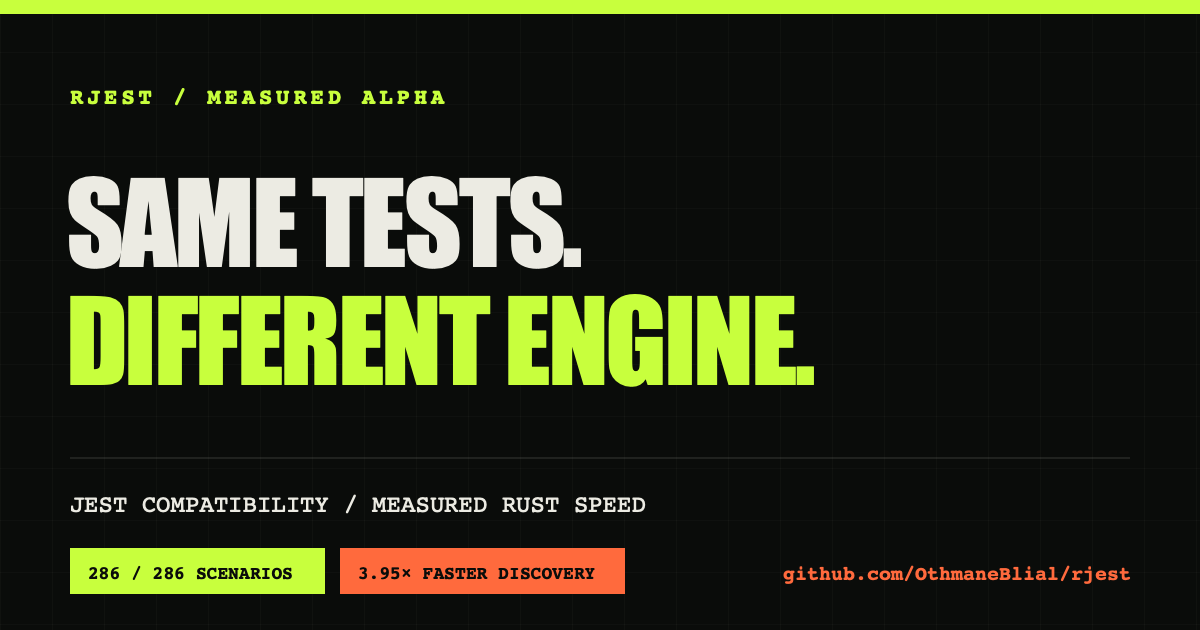
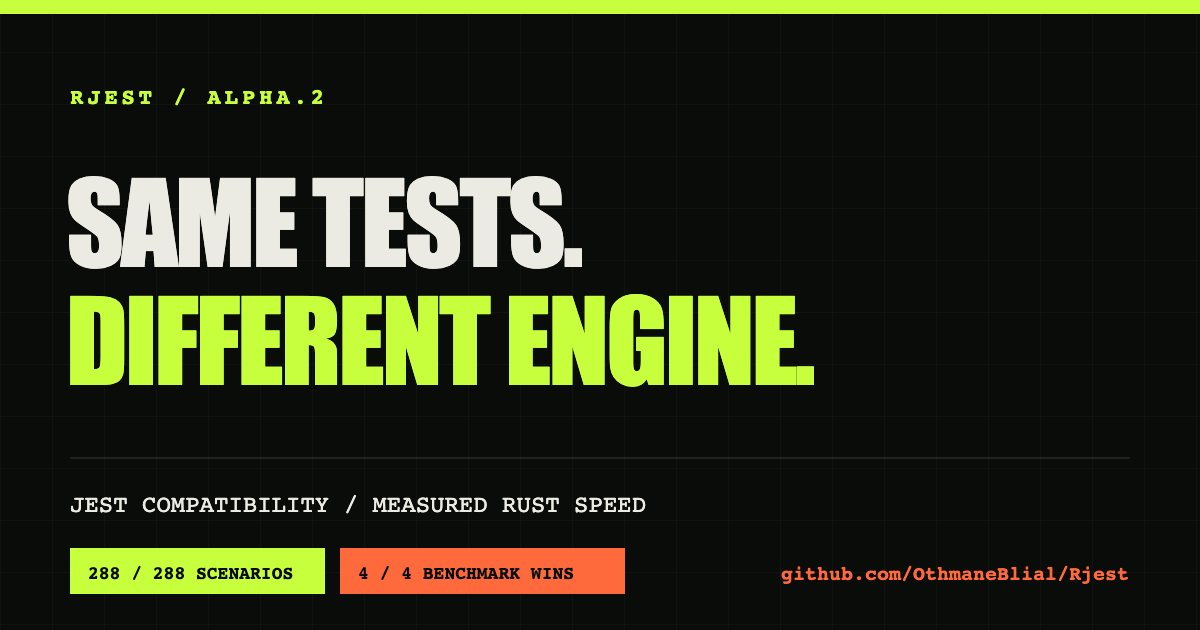
docs(site): link alpha.2 installation and refresh release details

diff --git a/site/index.html b/site/index.html
@@ -27,7 +27,7 @@
     <meta property="og:site_name" content="Rjest" />
     <meta
       property="og:image"
-      content="https://othmaneblial.github.io/rjest/og-card.png"
+      content="https://othmaneblial.github.io/rjest/og-card.png?v=alpha-2"
     />
     <meta property="og:image:width" content="1200" />
     <meta property="og:image:height" content="630" />
@@ -46,7 +46,7 @@
     />
     <meta
       name="twitter:image"
-      content="https://othmaneblial.github.io/rjest/og-card.png"
+      content="https://othmaneblial.github.io/rjest/og-card.png?v=alpha-2"
     />
     <link rel="icon" href="favicon.svg" type="image/svg+xml" />
     <link rel="preconnect" href="https://fonts.googleapis.com" />
@@ -597,35 +597,45 @@
           <div class="start-panel reveal">
             <div class="start-panel__copy">
               <p class="eyebrow">Bring a real suite</p>
-              <h2>Find the next gap.</h2>
+              <h2>Try your existing suite.</h2>
               <p>
-                Install the alpha, list the tests in an existing project, run
-                serially, and compare the result with official Jest.
+                Install alpha.2 from the release below. Requires Node.js 22.18
+                or newer and rustup; installation builds the native coordinator
+                with Rust 1.95. Compare discovery, then run serially and in
+                parallel with official Jest.
               </p>
               <div class="step-list">
-                <span><b>1</b> Install the alpha</span>
+                <span><b>1</b> Install alpha.2</span>
                 <span><b>2</b> Compare discovery</span>
                 <span><b>3</b> Run the suite</span>
               </div>
+              <a class="text-link release-link" href="https://github.com/OthmaneBlial/Rjest/releases/tag/v0.1.0-alpha.2" target="_blank" rel="noreferrer">
+                Alpha.2 release &amp; checksums <span aria-hidden="true">↗</span>
+              </a>
             </div>
 
             <div class="install-terminal">
               <div class="terminal-toolbar">
-                <span>BUILD / TRY</span>
+                <span>INSTALL / ALPHA.2</span>
                 <button
                   class="copy-button"
                   type="button"
-                  data-copy="npm install --save-dev rjest-rust-runner@alpha&#10;npx rjest --listTests&#10;npx rjest --runInBand"
+                  data-copy="npm install --save-dev https://github.com/OthmaneBlial/Rjest/releases/download/v0.1.0-alpha.2/rjest-rust-runner-0.1.0-alpha.2.tgz&#10;npx jest --listTests&#10;npx rjest --listTests&#10;npx jest --runInBand&#10;npx rjest --runInBand&#10;npx rjest --maxWorkers=4"
                 >
                   Copy
                 </button>
               </div>
-              <pre><code><span class="terminal-comment"># Install the current alpha</span>
-<span class="terminal-prompt">$</span> npm install --save-dev rjest-rust-runner@alpha
+              <pre><code><span class="terminal-comment"># Install alpha.2 from GitHub</span>
+<span class="terminal-prompt">$</span> npm install --save-dev https://github.com/OthmaneBlial/Rjest/releases/download/v0.1.0-alpha.2/rjest-rust-runner-0.1.0-alpha.2.tgz
 
-<span class="terminal-comment"># Compare discovery, then execute serially</span>
+<span class="terminal-comment"># Compare discovered tests</span>
+<span class="terminal-prompt">$</span> npx jest --listTests
 <span class="terminal-prompt">$</span> npx rjest --listTests
-<span class="terminal-prompt">$</span> npx rjest --runInBand</code></pre>
+
+<span class="terminal-comment"># Compare serial results, then run in parallel</span>
+<span class="terminal-prompt">$</span> npx jest --runInBand
+<span class="terminal-prompt">$</span> npx rjest --runInBand
+<span class="terminal-prompt">$</span> npx rjest --maxWorkers=4</code></pre>
             </div>
           </div>
         </div>
@@ -650,8 +660,9 @@
                 interruption are tested against Jest.
               </li>
               <li>
-                <span>02</span> Transform/discovery persistence and worker reuse
-                remain performance work.
+                <span>02</span> Persistent discovery/transform caches and reuse
+                of test isolates remain open. Alpha.2 reuses the Node host;
+                every file still gets a fresh isolate.
               </li>
               <li>
                 <span>03</span> Custom VM identity, specialized reporter
@@ -659,8 +670,16 @@
                 combinations, and long-tail resolvers need broader proof.
               </li>
               <li>
-                <span>04</span> Unlisted Jest behavior is not yet a
-                compatibility claim.
+                <span>04</span> Multi-file threads share a PID and native
+                process resources. Main-thread-only APIs such as
+                <code>process.chdir</code> are unavailable; a native crash or
+                killing the host PID can stop the batch. Single-file runs use
+                a separate process.
+              </li>
+              <li>
+                <span>05</span> Unlisted Jest behavior needs comparison with
+                your project. Test execution uses your permissions and is not
+                a security sandbox.
               </li>
             </ul>
             <a
@@ -686,6 +705,7 @@
           <p>Switch the runner. Keep the test suite.</p>
         </div>
         <div class="footer-links">
+          <a href="https://github.com/OthmaneBlial/Rjest/releases/tag/v0.1.0-alpha.2" target="_blank" rel="noreferrer">Alpha.2 release ↗</a>
           <a
             href="https://github.com/OthmaneBlial/Rjest"
             target="_blank"

diff --git a/site/styles.css b/site/styles.css
@@ -1202,6 +1202,7 @@ button {
 
 .flow-step {
   display: flex;
+  container-type: inline-size;
   min-width: 0;
   min-height: 170px;
   padding: 20px;
@@ -1219,7 +1220,7 @@ button {
 
 .flow-step strong {
   font-family: var(--display);
-  font-size: clamp(29px, 3vw, 42px);
+  font-size: clamp(24px, 25cqi, 42px);
   font-weight: 400;
   line-height: 0.9;
 }
@@ -1902,4 +1903,13 @@ button {
   margin: 16px 0 0;
   color: #555b51;
   font-size: 13px;
+}
+
+.install-terminal pre {
+  white-space: pre-wrap;
+  overflow-wrap: anywhere;
+}
+
+.release-link {
+  margin-top: 28px;
 }
